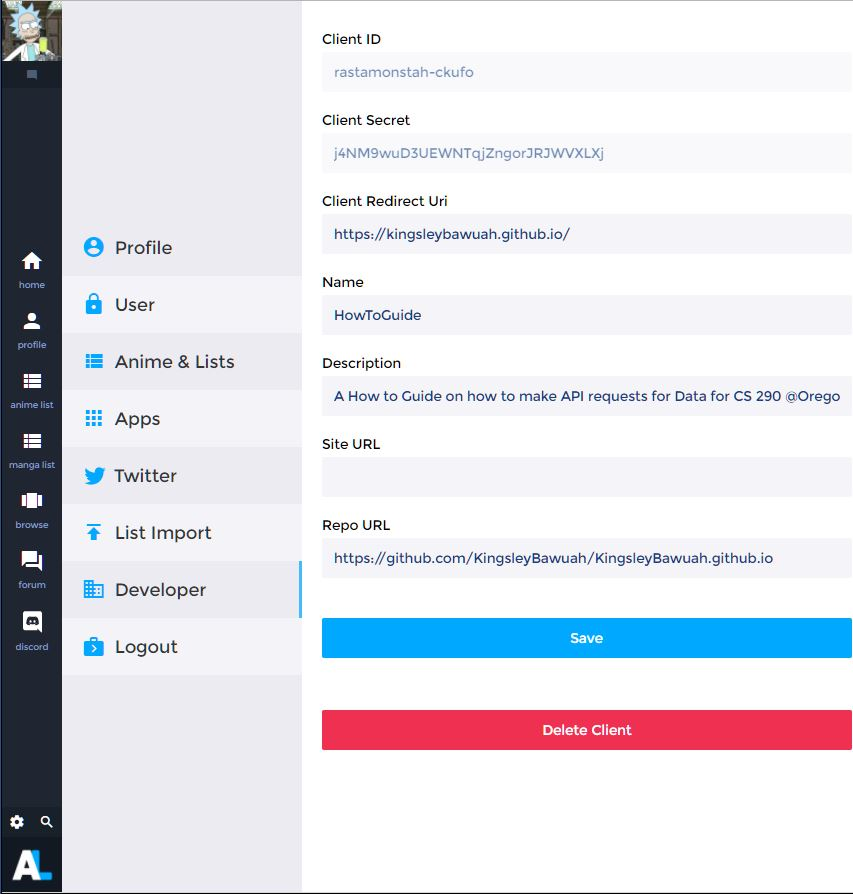
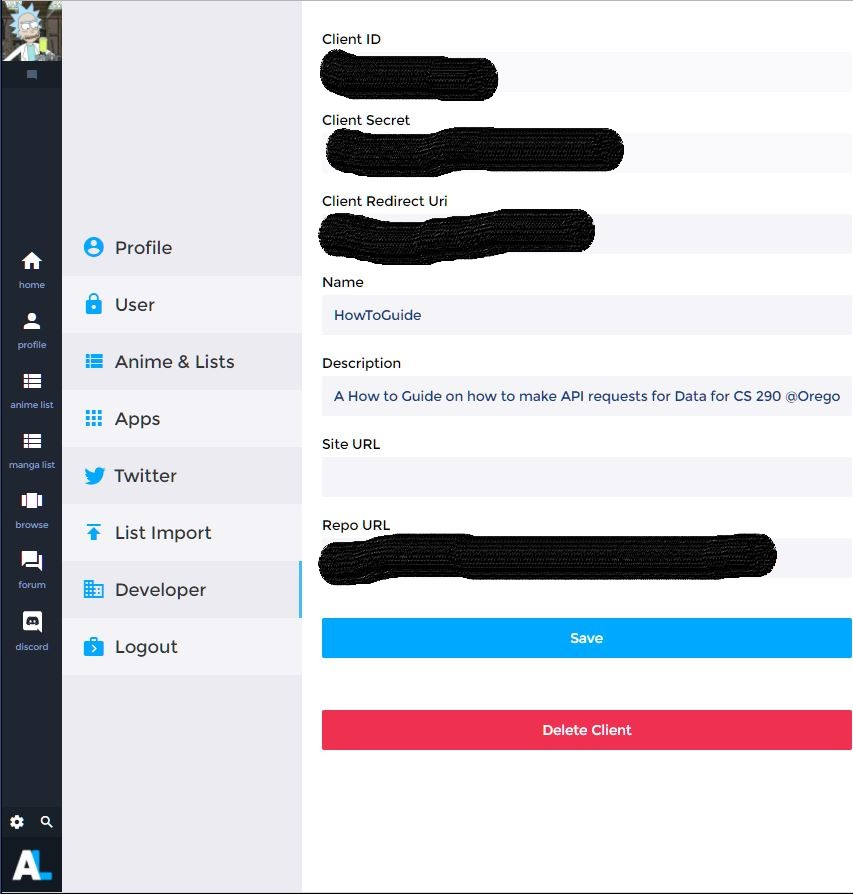
First Nights work on the AJAX page.

Changed region(s): [[0.3658, 0.0604, 0.7315, 0.302], [0.3658, 0.5738, 0.9144, 0.6644]]

diff --git a/AJAX.html b/AJAX.html
@@ -76,7 +76,13 @@
 						<p>Last Example, this time a sample response from the AniList Server:</p>
 						<script async src="//jsfiddle.net/rastamonstahh/pmxhshv1/embed/js/dark/"></script>
 					</div>
+
 					<p>Enough background knowledge, lets begin on our application. First things first we need an account on AniList. Once created navigate to the settings, then to the developer tab. Here is where we will register our application to recieve access to AniLists API. This is done as a method of identification and authentication in which we will go into more detail in the following sections. For now fill in the Client Redirect URL with any URL (we will change this later) and a simple name for your application. We will change these in the future so don't worry to much about them now.</p>
+					<div>
+						<a><img src="images/Captured.JPG" alt=""></a>
+					</div>
+					<p>Now that we have created our client hit save to have the site generate a client ID and client secret for our app.  Success! You've now registered and recieved the information you will need to access the database!
+					</p>
 				</section>
 			</div>
 			<!-- /Content -->
